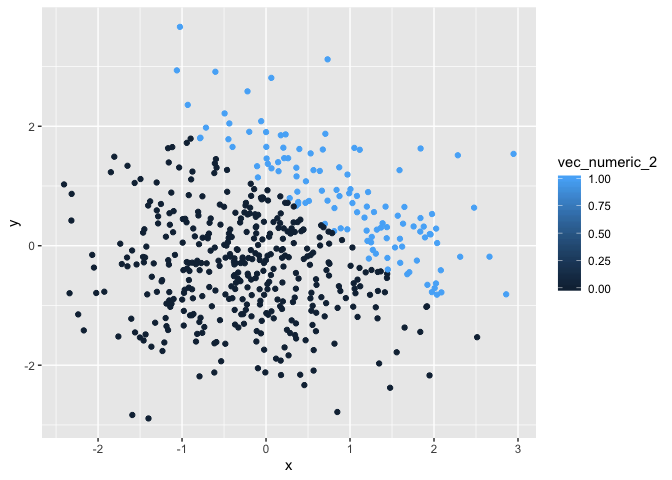
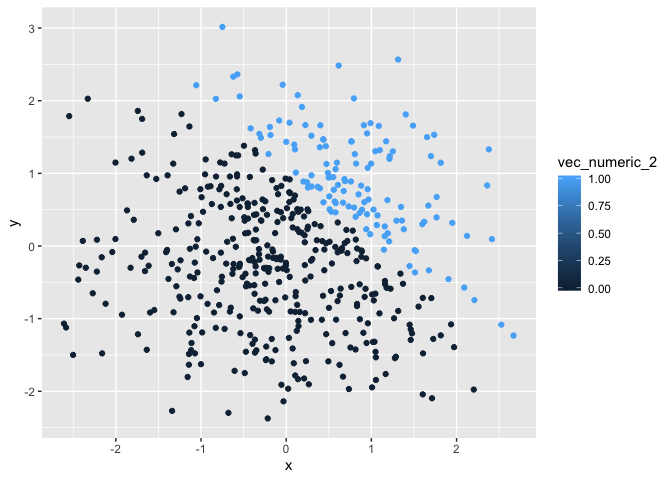
Final version

diff --git a/P8105_homework1_gl2677.md b/P8105_homework1_gl2677.md
@@ -29,7 +29,7 @@ df_1 = tibble(vec_numeric ,vec_logical ,vec_char ,vec_factor)
 
 I try to take the mean of the variables:
 
-The mean of `vec_numeric` is -0.4683452. The mean of `vec_logical` is
+The mean of `vec_numeric` is 0.0322927. The mean of `vec_logical` is
 0.5. The mean of `vec_char` is NA. The mean of `vec_factor` is NA.
 
 Therefore, only numeric and logical variables work for `mean()`.
@@ -77,9 +77,9 @@ vec_factor_2 = as.factor(vec_logical_2)
 df_2 = tibble(x, y, vec_logical_2, vec_numeric_2, vec_factor_2)
 ```
 
-The data frame has 500 rows and 5 columns. The mean of `x` is 0.0098436,
-and the median of `x` is -0.051226, and the stardar deviation of `x` is
-1.0021987. The proportion of cases for which `x + y > 1` is 0.236.
+The data frame has 500 rows and 5 columns. The mean of `x` is 0.025471,
+and the median of `x` is 0.0355088, and the stardar deviation of `x` is
+1.0048453. The proportion of cases for which `x + y > 1` is 0.254.
 
 ``` r
 df_2 %>% ggplot(aes(x = x, y = y, color = vec_logical_2)) +
@@ -111,5 +111,5 @@ df_2 %>% ggplot(aes(x = x, y = y, color = vec_factor_2)) +
 The color scales of logical variables and factor variables are the same,
 which contain only two categories. The color scale of numeric variables
 is color plaette. However, the numeric variables are converted from
-logical variables, so there are only two kinds of color in the
+logical variables, so there are only two kinds of color (0, 1) in the
 scatterplot of numeric variables.
